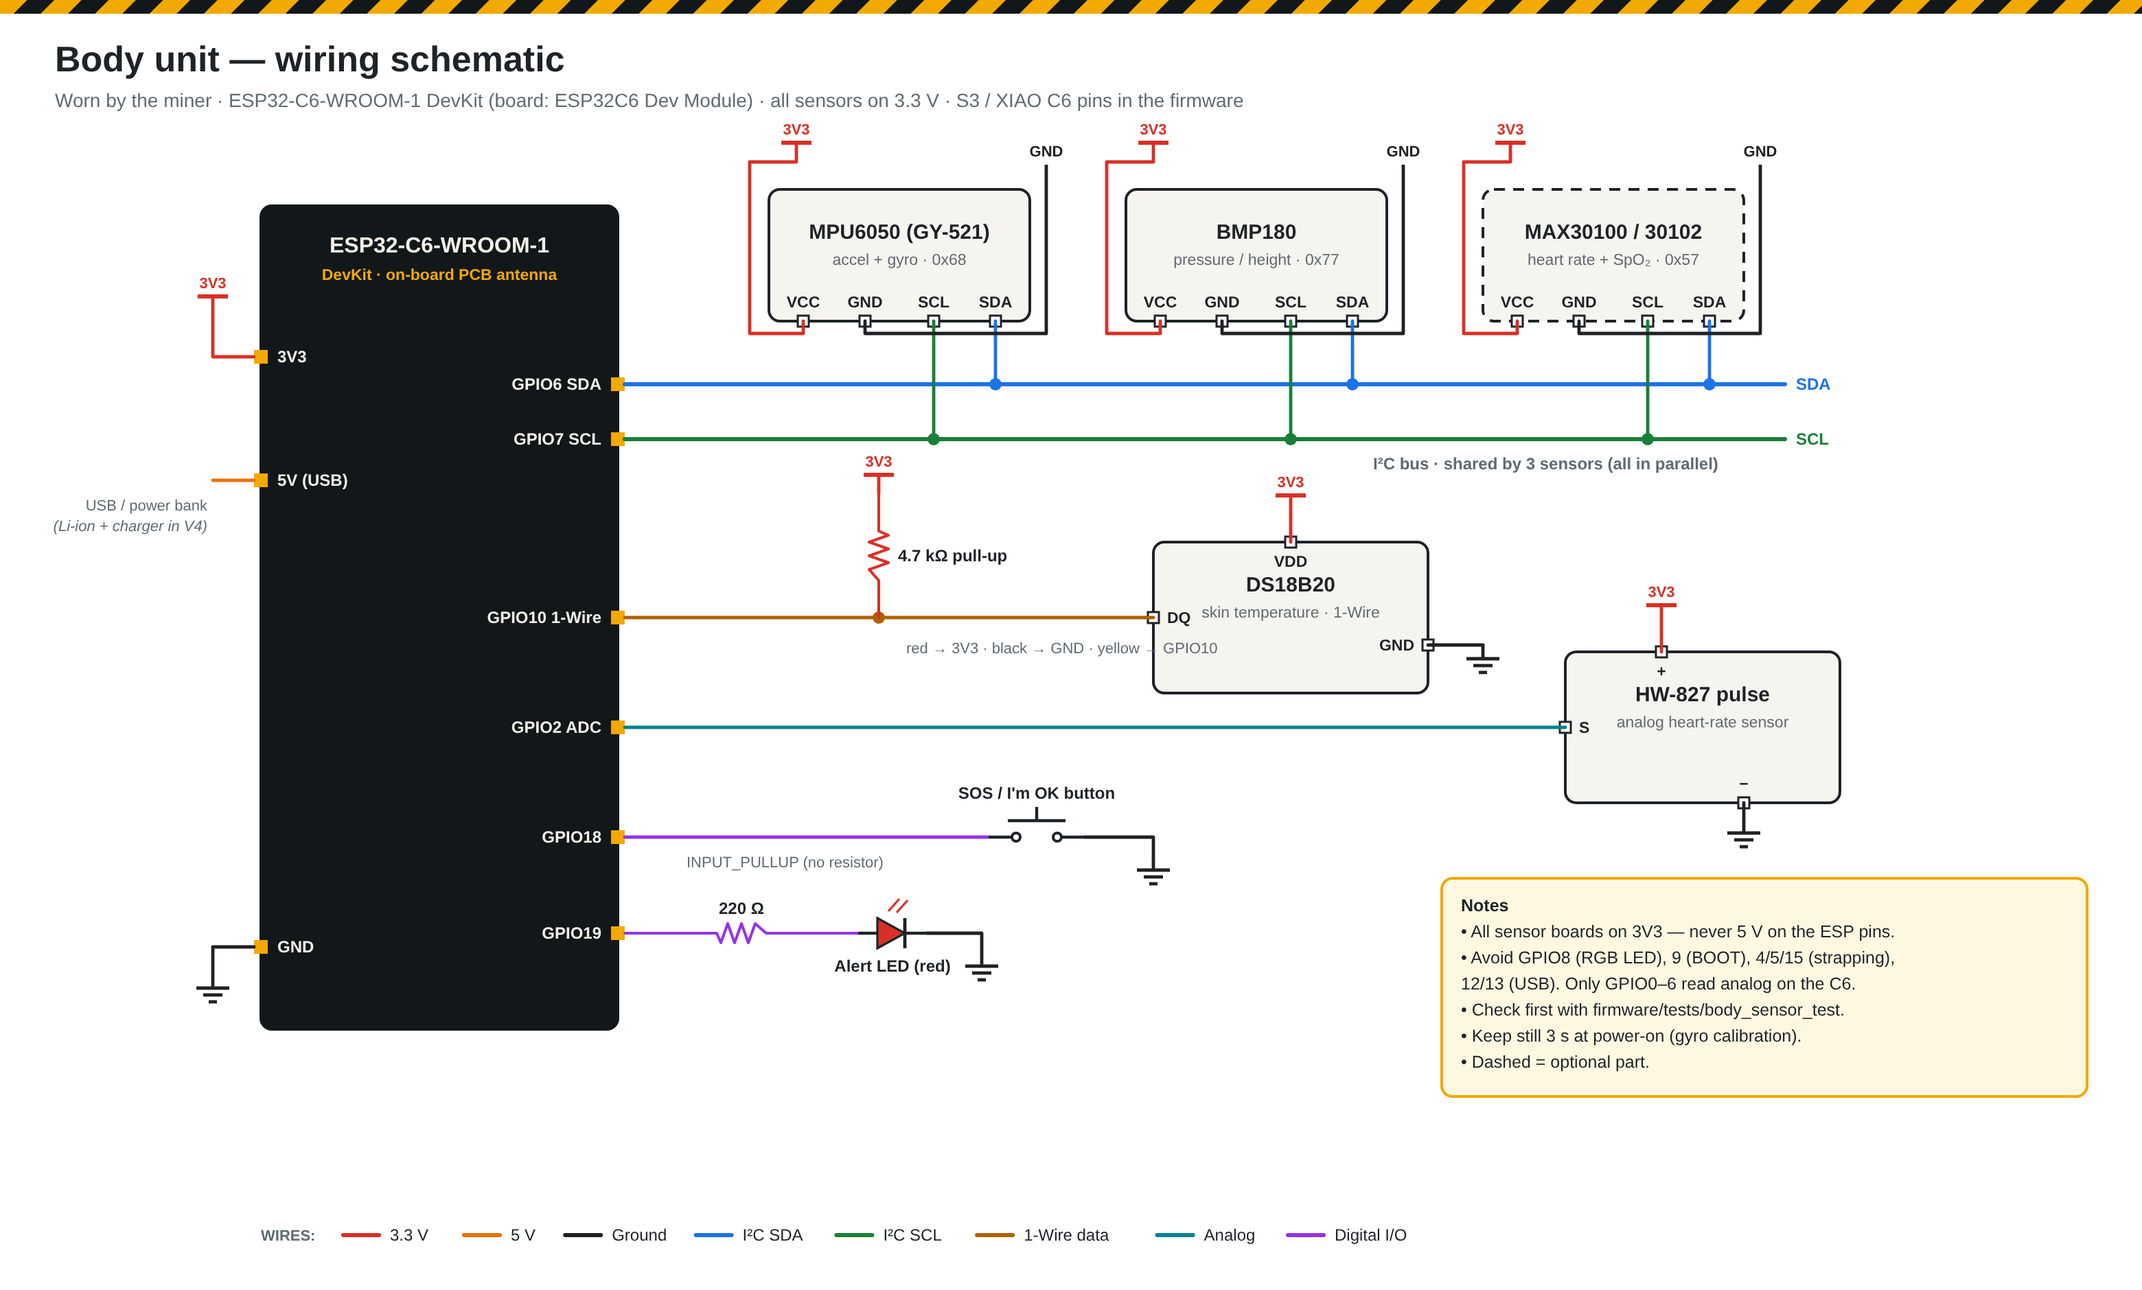
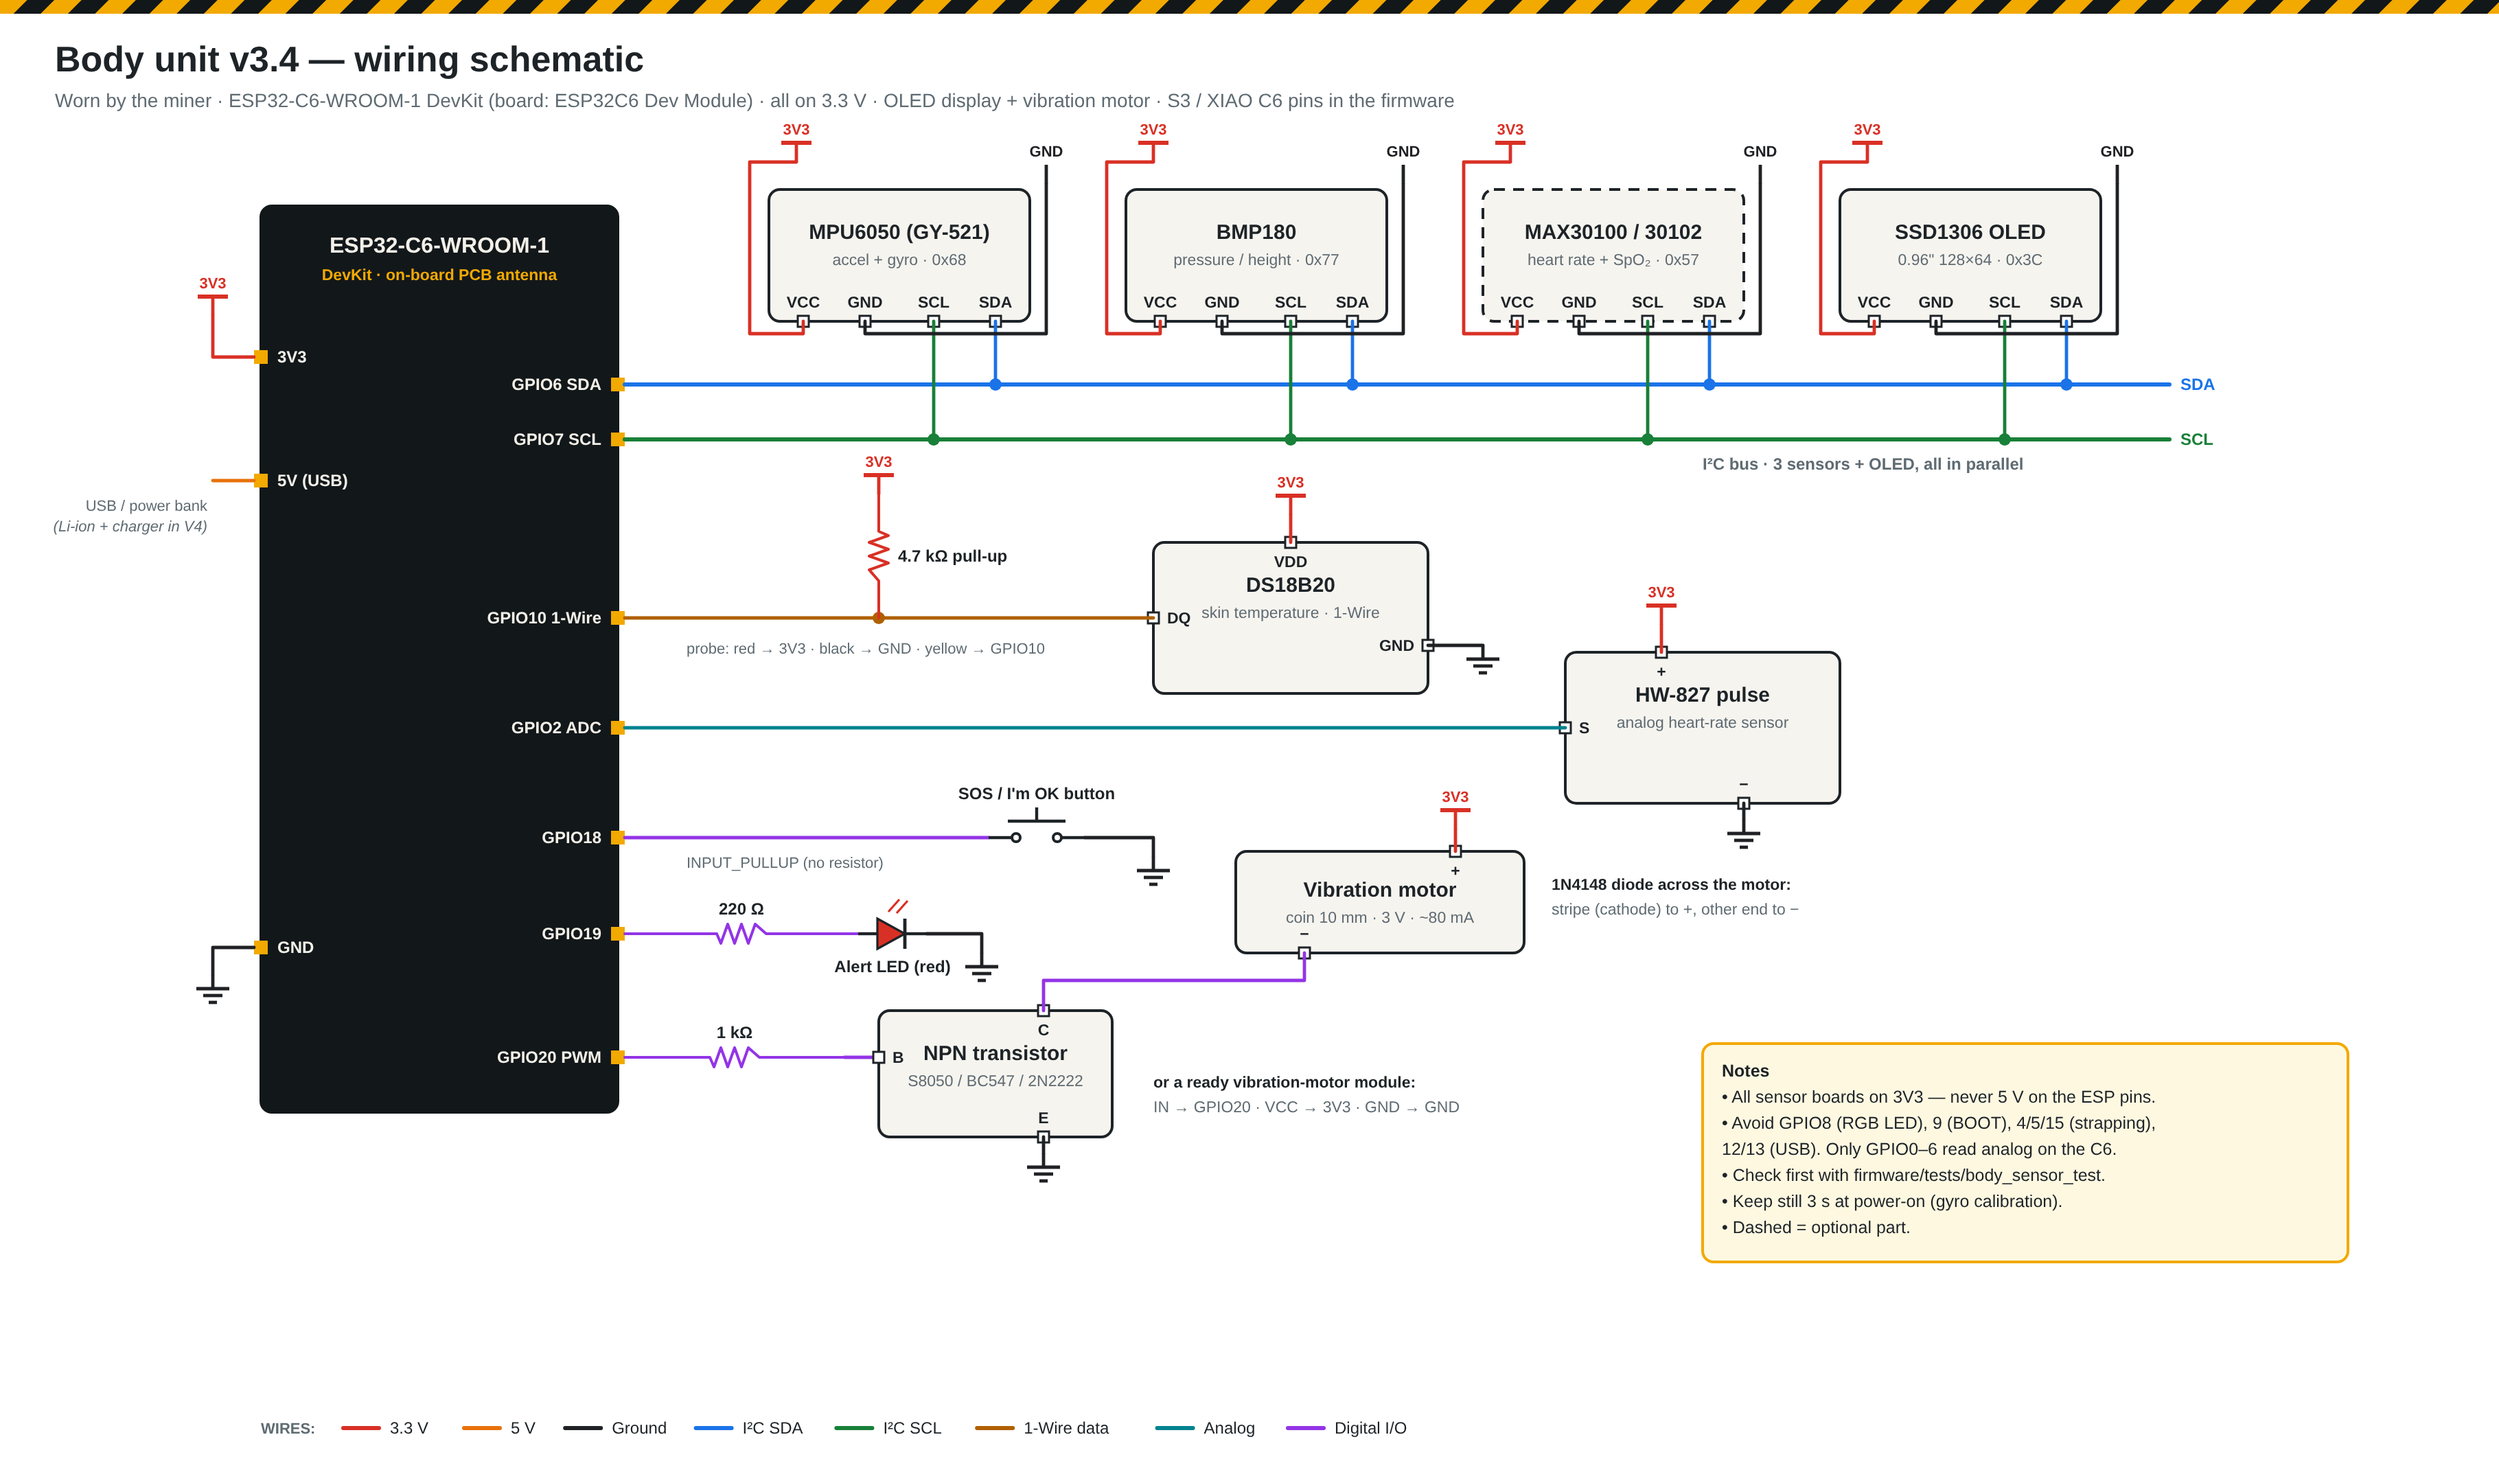
v3.4: OLED display and vibration motor on the body unit
Claude-Session: https://claude.ai/code/session_01PGMYLJZdJJDWKnHJD8ynzD

diff --git a/docs/wiring/make_schematics.py b/docs/wiring/make_schematics.py
@@ -161,26 +161,26 @@ def mcu(s, x, y, w, h, title, sub, left, right):
 
 # ===================================================================== body
 def body():
-    s = Sheet(1560, 940, "Body unit — wiring schematic",
-              "Worn by the miner · ESP32-C6-WROOM-1 DevKit (board: ESP32C6 Dev Module) · all sensors on 3.3 V · S3 / XIAO C6 pins in the firmware")
-    P = mcu(s, 190, 150, 260, 600, "ESP32-C6-WROOM-1", "DevKit · on-board PCB antenna",
+    s = Sheet(1820, 1080, "Body unit v3.4 — wiring schematic",
+              "Worn by the miner · ESP32-C6-WROOM-1 DevKit (board: ESP32C6 Dev Module) · all on 3.3 V · OLED display + vibration motor · S3 / XIAO C6 pins in the firmware")
+    P = mcu(s, 190, 150, 260, 660, "ESP32-C6-WROOM-1", "DevKit · on-board PCB antenna",
             left=[(110, "3V3"), (200, "5V (USB)"), (540, "GND")],
             right=[(130, "GPIO6  SDA"), (170, "GPIO7  SCL"), (300, "GPIO10  1-Wire"),
-                   (380, "GPIO2  ADC"), (460, "GPIO18"), (530, "GPIO19")])
+                   (380, "GPIO2  ADC"), (460, "GPIO18"), (530, "GPIO19"), (620, "GPIO20  PWM")])
     x3, y3 = P["3V3"]; s.wire([(x3, y3), (x3 - 30, y3), (x3 - 30, y3 - 30)], "3V3"); s.vcc(x3 - 30, y3 - 30)
     x5, y5 = P["5V (USB)"]; s.wire([(x5, y5), (x5 - 30, y5)], "5V"); s.text(x5 - 34, y5 + 22, "USB / power bank", 11, MUTED, "end")
     s.text(x5 - 34, y5 + 37, "(Li-ion + charger in V4)", 11, MUTED, "end", italic=True)
     xg, yg = P["GND"]; s.wire([(xg, yg), (xg - 30, yg), (xg - 30, yg + 20)], "GND"); s.gnd(xg - 30, yg + 20)
 
     sda_y, scl_y = P["GPIO6  SDA"][1], P["GPIO7  SCL"][1]
-    bus_end = 1300
+    bus_end = 1580
     s.wire([P["GPIO6  SDA"], (bus_end, sda_y)], "SDA", 3)
     s.wire([P["GPIO7  SCL"], (bus_end, scl_y)], "SCL", 3)
     s.text(bus_end + 8, sda_y + 4, "SDA", 12, NET["SDA"], weight=700)
     s.text(bus_end + 8, scl_y + 4, "SCL", 12, NET["SCL"], weight=700)
-    s.text(1000, scl_y + 22, "I²C bus · shared by 3 sensors (all in parallel)", 12, MUTED, weight=600)
+    s.text(1240, scl_y + 22, "I²C bus · 3 sensors + OLED, all in parallel", 12, MUTED, weight=600)
     mods = [(560, "MPU6050 (GY-521)", "accel + gyro · 0x68"), (820, "BMP180", "pressure / height · 0x77"),
-            (1080, "MAX30100 / 30102", "heart rate + SpO₂ · 0x57")]
+            (1080, "MAX30100 / 30102", "heart rate + SpO₂ · 0x57"), (1340, "SSD1306 OLED", "0.96\" 128×64 · 0x3C")]
     for mx, t, sub in mods:
         my, mw, mh = 138, 190, 96
         s.box(mx, my, mw, mh, t, sub, dash=(mx == 1080))
@@ -206,7 +206,7 @@ def body():
     s.vcc(640, y7 - 90)
     s.wire([(940, y7 - 55), (940, y7 - 75)], "3V3"); s.vcc(940, y7 - 75)
     s.wire([(1040, y7 + 20), (1080, y7 + 20)], "GND"); s.gnd(1080, y7 + 20)
-    s.text(660, y7 + 26, "red → 3V3 · black → GND · yellow → GPIO10", 11, MUTED)
+    s.text(500, y7 + 26, "probe: red → 3V3 · black → GND · yellow → GPIO10", 11, MUTED)
 
     y1 = P["GPIO2  ADC"][1]
     s.box(1140, y1 - 55, 200, 110, "HW-827 pulse", "analog heart-rate sensor")
@@ -226,14 +226,30 @@ def body():
     e2 = s.led(end[0], y4, "Alert LED (red)")
     s.wire([e2, (e2[0] + 40, y4), (e2[0] + 40, y4 + 14)], "GND"); s.gnd(e2[0] + 40, y4 + 14)
 
-    s.note(1050, 640, ["Notes",
+    # vibration motor through an NPN transistor
+    yh = P["GPIO20  PWM"][1]
+    end = s.resistor(P["GPIO20  PWM"][0], yh, 160, False, "1 kΩ", "SIG")
+    s.wire([end, (640, yh)], "SIG")
+    s.box(640, yh - 34, 170, 92, "NPN transistor", "S8050 / BC547 / 2N2222")
+    s.pin(640, yh, "B", "l"); s.pin(760, yh - 34, "C", "t"); s.pin(760, yh + 58, "E", "b")
+    s.wire([(760, yh + 58), (760, yh + 70)], "GND"); s.gnd(760, yh + 70)
+    s.box(900, yh - 150, 210, 74, "Vibration motor", "coin 10 mm · 3 V · ~80 mA")
+    s.pin(950, yh - 76, "−", "b"); s.pin(1060, yh - 150, "+", "t")
+    s.wire([(760, yh - 34), (760, yh - 56), (950, yh - 56), (950, yh - 76)], "SIG")
+    s.wire([(1060, yh - 150), (1060, yh - 166)], "3V3"); s.vcc(1060, yh - 166)
+    s.text(1130, yh - 122, "1N4148 diode across the motor:", 11.5, INK, weight=700)
+    s.text(1130, yh - 104, "stripe (cathode) to +, other end to −", 11.5, MUTED)
+    s.text(840, yh + 22, "or a ready vibration-motor module:", 11.5, INK, weight=700)
+    s.text(840, yh + 40, "IN → GPIO20 · VCC → 3V3 · GND → GND", 11.5, MUTED)
+
+    s.note(1240, 760, ["Notes",
                        "• All sensor boards on 3V3 — never 5 V on the ESP pins.",
                        "• Avoid GPIO8 (RGB LED), 9 (BOOT), 4/5/15 (strapping),",
                        "  12/13 (USB). Only GPIO0–6 read analog on the C6.",
                        "• Check first with firmware/tests/body_sensor_test.",
                        "• Keep still 3 s at power-on (gyro calibration).",
                        "• Dashed = optional part."], 470)
-    s.legend(190, 900, [("3V3", "3.3 V"), ("5V", "5 V"), ("GND", "Ground"), ("SDA", "I²C SDA"), ("SCL", "I²C SCL"),
+    s.legend(190, 1040, [("3V3", "3.3 V"), ("5V", "5 V"), ("GND", "Ground"), ("SDA", "I²C SDA"), ("SCL", "I²C SCL"),
                         ("ONE", "1-Wire data"), ("ANA", "Analog"), ("SIG", "Digital I/O")])
     s.save("body_unit.svg")
 

diff --git a/docs/final_bom.md b/docs/final_bom.md
@@ -11,7 +11,9 @@ Prices are approximate Indian online prices (Oct 2026); check before ordering. "
 | Skin temperature | DS18B20 probe + 4.7 kΩ | MAX30208 / TMP117 chip on the back plate | 1 | 120–500 |
 | Pulse + SpO₂ | MAX30102 (+ HW-827 backup) | MAX30101 / MAX30102 behind a window | 1 | 150–400 |
 | SOS button | tactile button | large glove-friendly button | 1 | 20 |
-| Alert | red LED + 220 Ω | LED + **vibration motor** (with NPN / MOSFET driver) | 1 | 60 |
+| Alert LED | red LED + 220 Ω | same | 1 | 5 |
+| **Display (v3.4)** | SSD1306 0.96" OLED 128×64 (I²C) | same, or 1.3" SH1106 for gloves-on reading | 1 | 200 |
+| **Vibration (v3.4)** | 10 mm coin motor 3 V + S8050 NPN + 1 kΩ + 1N4148 (or vibration-motor module) | same, on the PCB | 1 | 40–80 |
 | Battery | 3.7 V Li-ion / LiPo 1000 mAh | LiPo 500–1000 mAh with protection | 1 | 250 |
 | Charging | TP4056 module with protection | charger IC (e.g. TP4056 / MCP73831) + pogo-pin dock | 1 | 50 |
 | 3.3 V regulator | on the DevKit | low-quiescent LDO (e.g. ME6211, HT7333) | 1 | 20 |
@@ -55,4 +57,4 @@ Prices are approximate Indian online prices (Oct 2026); check before ordering. "
 Jumper wires, perfboard / PCB, headers, heat-shrink, JST connectors, soldering kit, multimeter.
 
 ## Prototype set to build now (1 body unit, 3 repeaters, 1 entry station)
-≈ ₹2,000 body unit + 3 × ≈ ₹2,300 repeaters (with matrix + 3 MQ sensors) + ≈ ₹1,600 entry station ≈ **₹10,500**, plus wiring and boxes. Upgrading every repeater's gas sensors to electrochemical / NDIR adds roughly ₹5,000–8,000 per repeater.
+≈ ₹2,300 body unit (with display + vibration) + 3 × ≈ ₹2,300 repeaters (with matrix + 3 MQ sensors) + ≈ ₹1,600 entry station ≈ **₹10,800**, plus wiring and boxes. Upgrading every repeater's gas sensors to electrochemical / NDIR adds roughly ₹5,000–8,000 per repeater.

diff --git a/CHANGELOG.md b/CHANGELOG.md
@@ -78,6 +78,10 @@ Detailed git versions below (v0.0–v1.0 make up V2).
 - [ ] Kit-removal sensing (helmet IR sensor, vest buckle reed switch)
 - [ ] Battery, enclosure, demo video
 
+## v3.4 — Body unit display and vibration
+- `firmware/body_node`: **SSD1306 0.96" OLED** on the sensor I²C bus — vitals (heart rate, body temperature, steps), nearest repeater + signal bars, and full-screen prompts: **EVACUATE** with the exit direction and distance from the nearest repeater's sign (read from the evacuation guide in the beacons), EXIT HERE, DANGER zone, no safe route, ALERT, ARE YOU OK? (fall / no movement), SOS SENT. **Vibration motor** on GPIO20 (PWM, through an NPN or a motor module) with patterns for alert / evacuation, fall, early still-warning, SOS on/off, connected, lost coverage and a new exit direction. Serial `v` / `d` = vibration / display test. `DISPLAY_ENABLED`, `HAPTIC_ENABLED` switches; builds without the display libraries when off.
+- Docs: body wiring + schematic with the OLED and motor driver, screen previews (`docs/images/body_oled_screens.png`), BOM.
+
 ## v3.3 — Exit-sign repeaters, evacuation routes, gas limits
 The tested v3.1 repeater is frozen on branch [`version/v3.1-repeater-final`](https://github.com/Manas-36/MINESAFE/tree/version/v3.1-repeater-final).
 - `firmware/repeater_node`: **MAX7219 8×32 LED matrix exit sign** (own driver; arrow + distance, `EXIT`, `NO GO`, `DANGR`, `GAS!`, `SOS`, `ALERT`; dim name/air display in normal times), buzzer kept with an evacuation pattern; **up to 3 MQ gas sensors** (`GAS_CHANNELS`, D2 / D0 / D1); **SOS button** (hold 1.5 s); the hub's evacuation guide travels down the chain at the end of every beacon (old body units / repeaters ignore the extra bytes). Serial `d` = display test, `s` = SOS.

diff --git a/docs/wiring.md b/docs/wiring.md
@@ -62,6 +62,21 @@ Board *ESP32C6 Dev Module*. `body_node.ino` picks these pins by itself on that b
 | HW-827 S (analog) | GPIO2 |
 | SOS button (→ GND) | GPIO18 |
 | Red LED (220 Ω) | GPIO19 |
+| **OLED SSD1306 0.96" (v3.4)** VCC / GND / SDA / SCL | 3V3 / GND / GPIO6 / GPIO7 (same bus as the sensors, 0x3C) |
+| **Vibration motor (v3.4)** via NPN (S8050 / BC547) — 1 kΩ to base | GPIO20 |
+
+**Display + vibration (v3.4).** The OLED shares the sensor I²C bus. The coin motor draws ~80 mA, more than a GPIO can give, so it is switched by an NPN transistor: GPIO20 → 1 kΩ → base, emitter → GND, collector → motor −, motor + → 3V3, and a 1N4148 diode across the motor (stripe to +). A ready "vibration motor module" (IN / VCC / GND) can be used instead: IN → GPIO20. XIAO C6: motor on D9 (GPIO20); ESP32-S3: GPIO10. Libraries: *Adafruit SSD1306* + *Adafruit GFX*. Serial `v` = vibration test, `d` = show every screen. `DISPLAY_ENABLED` / `HAPTIC_ENABLED` turn them off.
+
+![Body unit display screens](images/body_oled_screens.png)
+
+| Vibration | Means |
+|---|---|
+| 3 pulses every 4 s (every 15 s after 30 s) | ALERT / EVACUATE — look at the screen |
+| long pulses every 2.6 s | fall or no movement — press the button if you are OK |
+| 2 short | you have been still for 20 s (alarm in 10 s) · SOS cancelled |
+| 1 long | SOS sent |
+| 1 short | connected to a repeater · exit direction changed |
+| 3 quick | lost the repeaters (out of coverage) |
 
 Avoid GPIO8 (on-board RGB LED), GPIO9 (BOOT), GPIO4/5/15 (strapping) and GPIO12/13 (USB). Only GPIO0–6 read analog on the C6.
 
